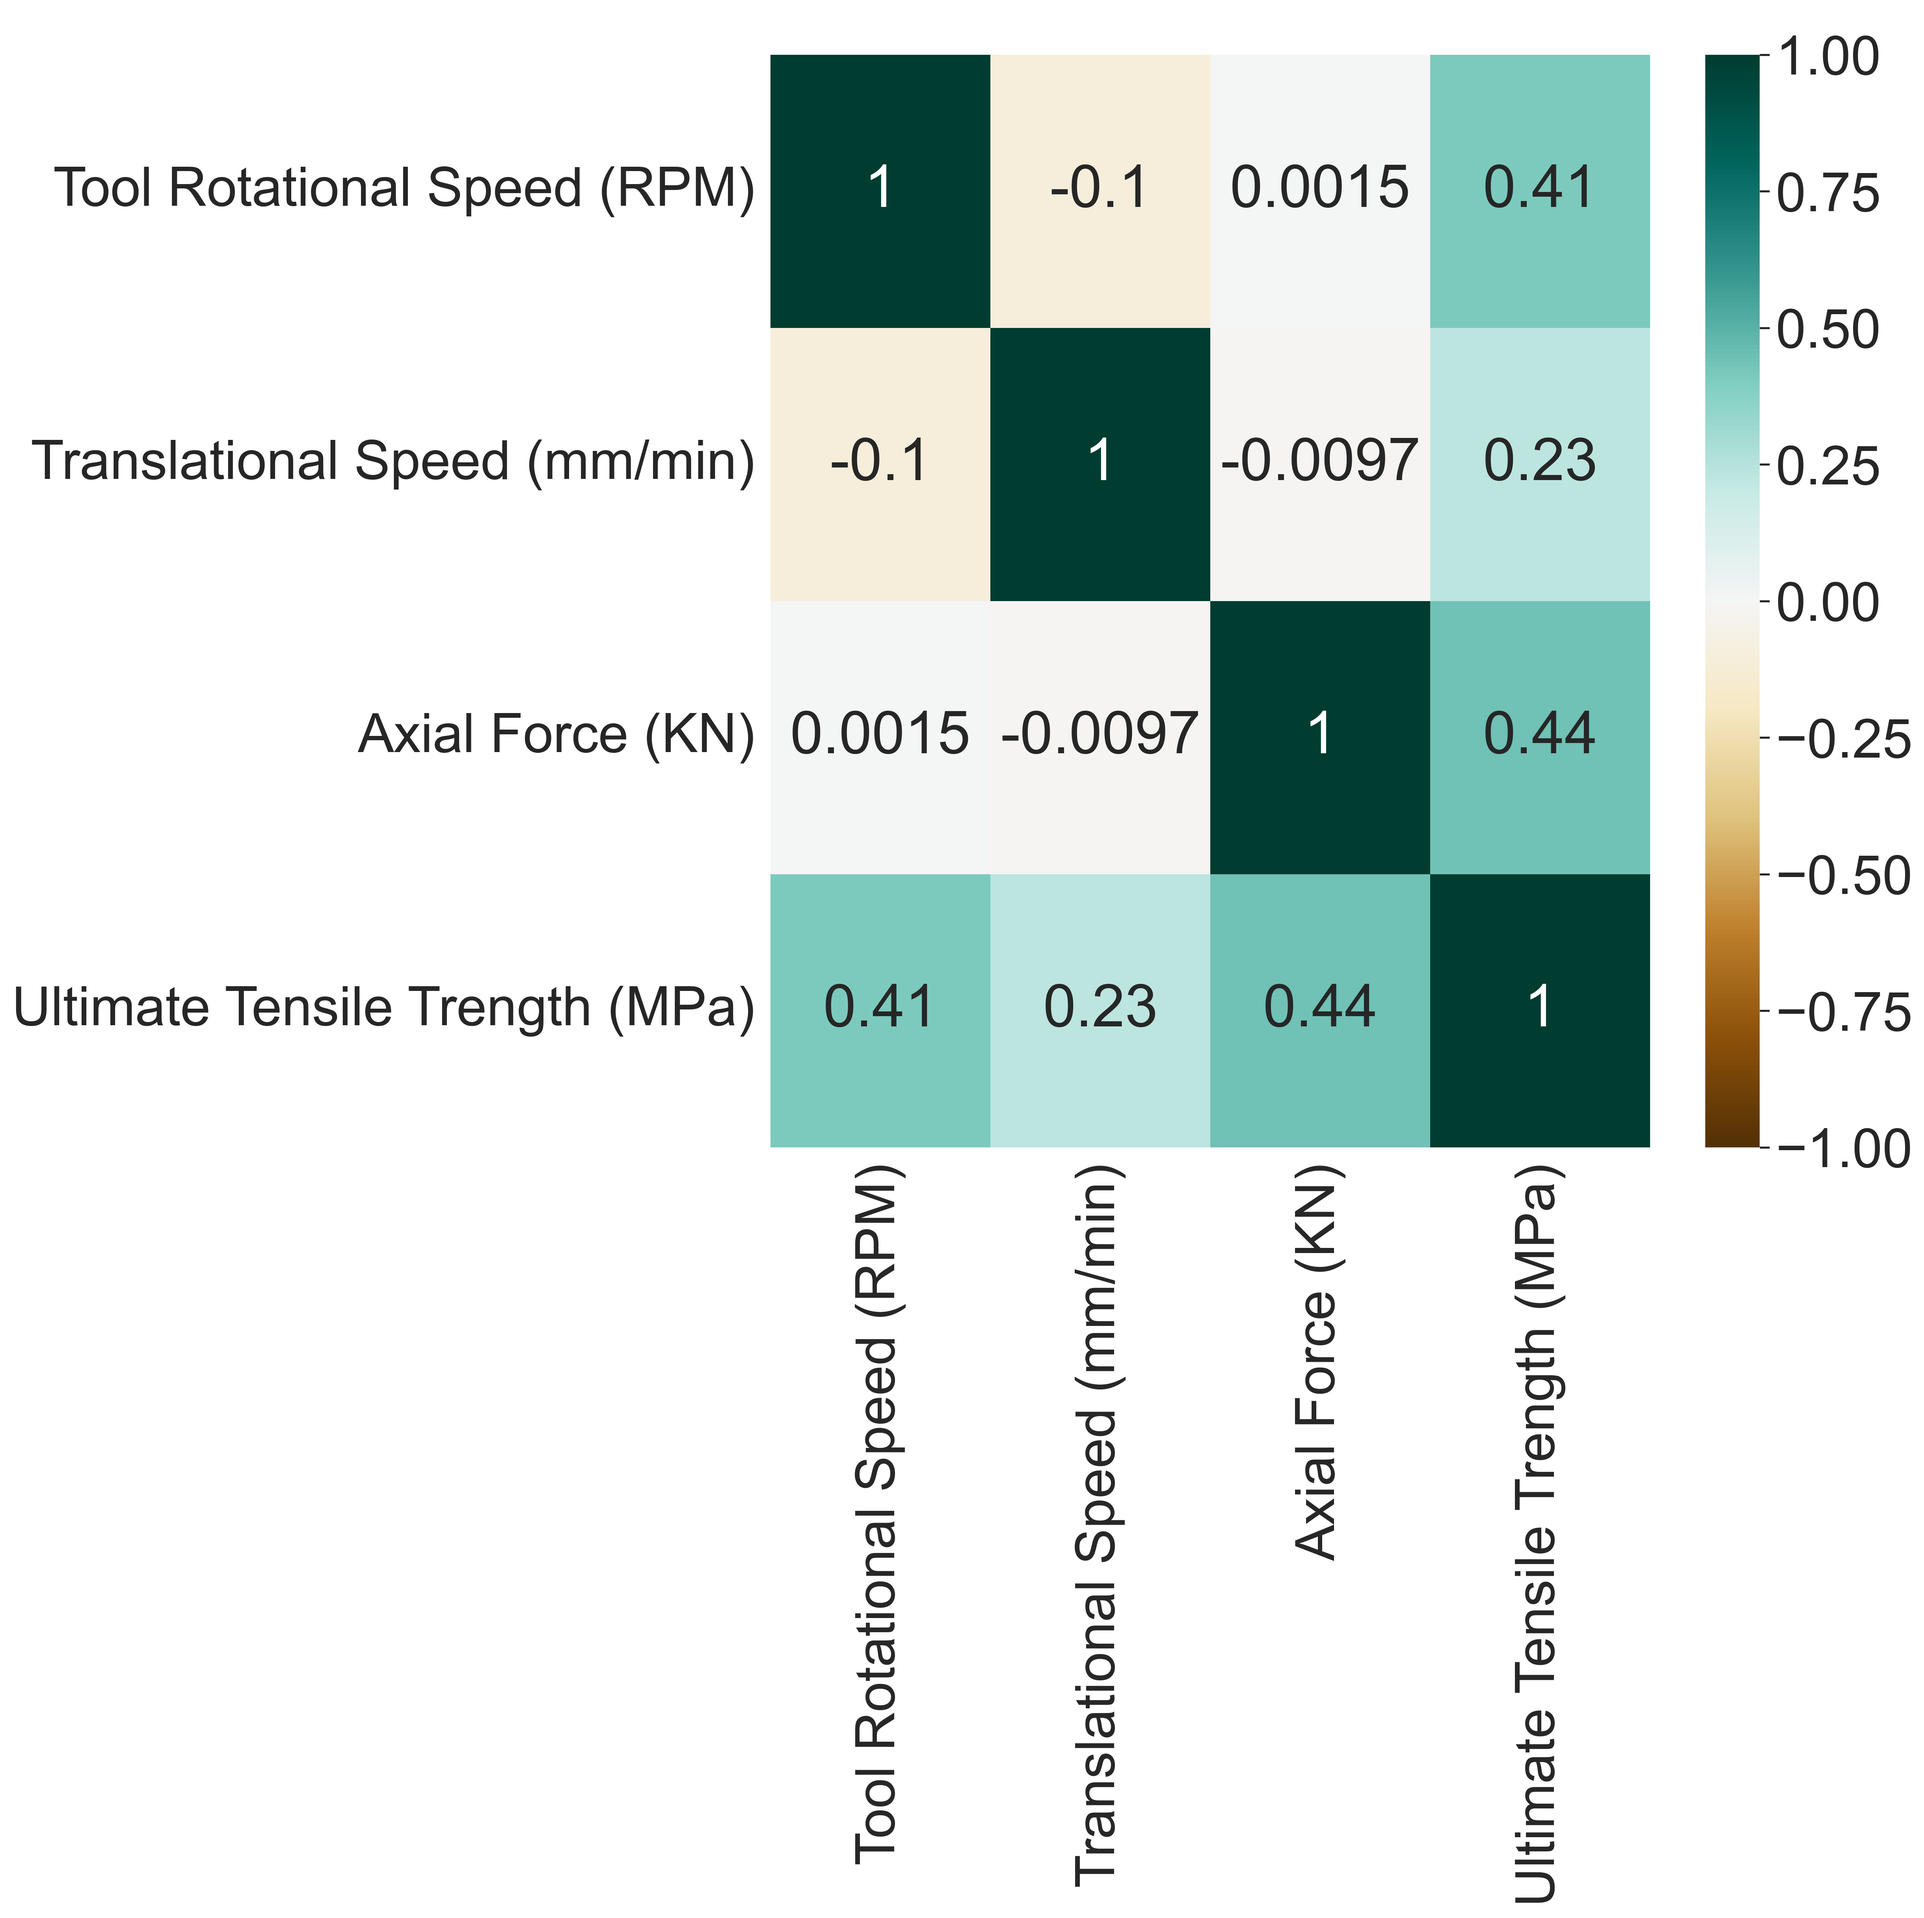
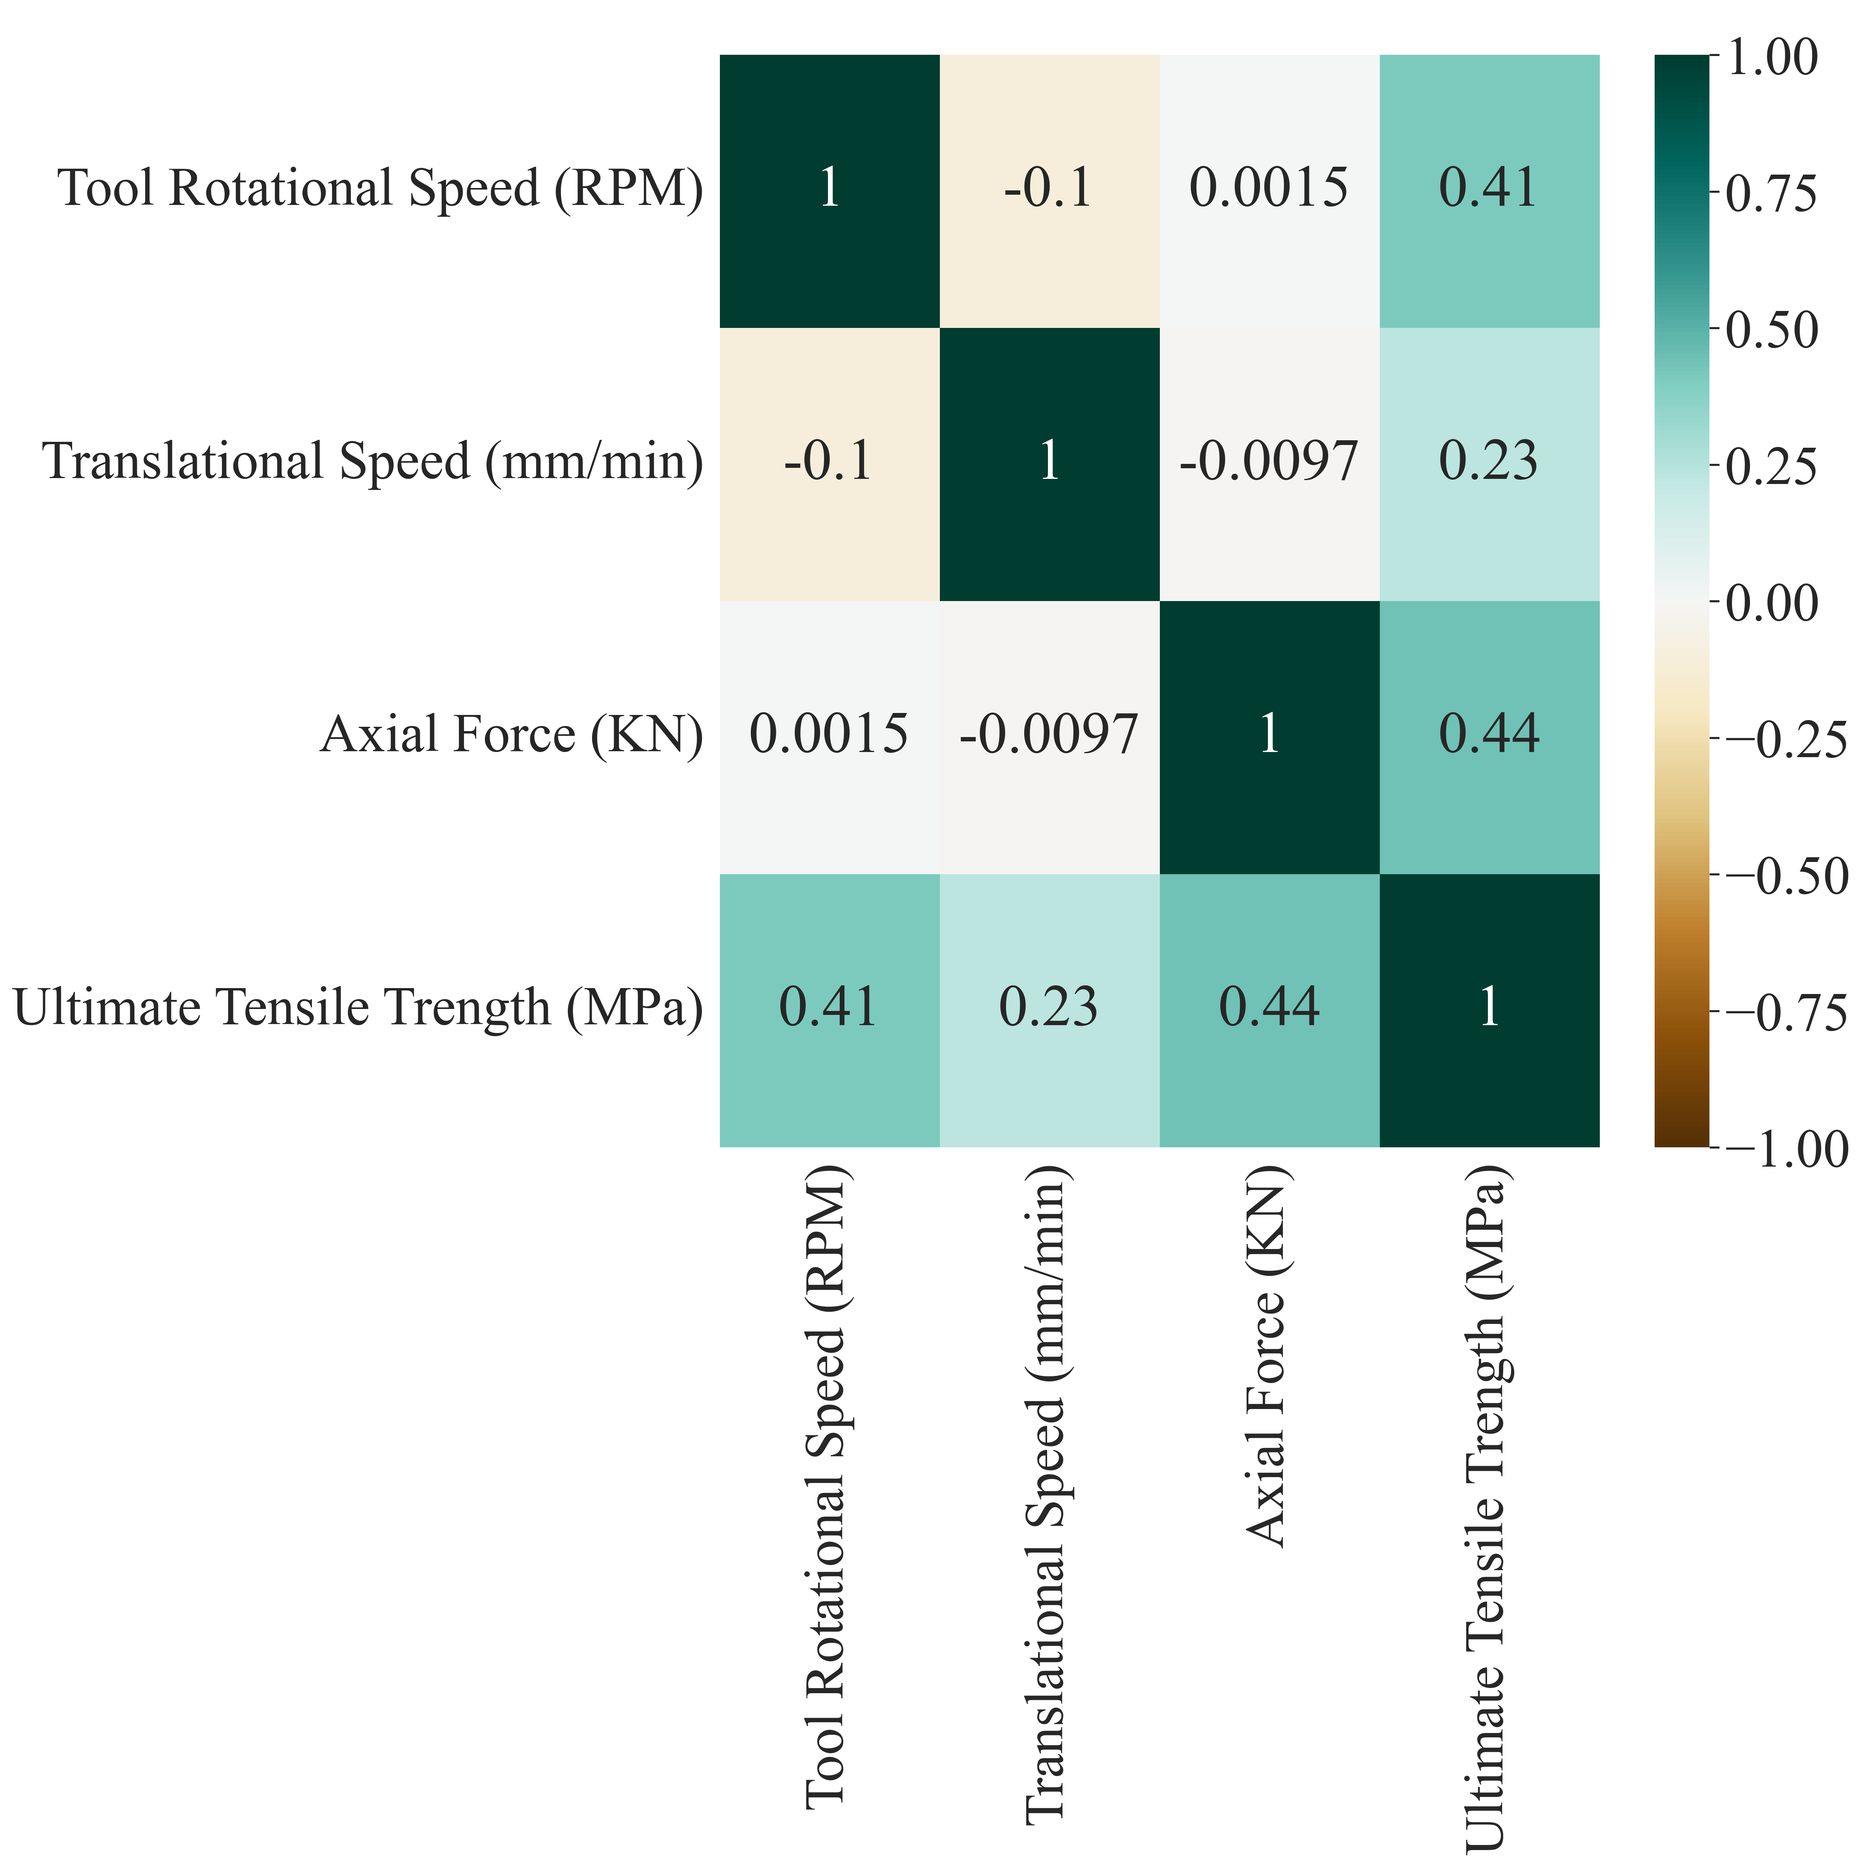
second commit

diff --git a/3dplot.py b/3dplot.py
@@ -1,0 +1,27 @@
+import numpy as np
+import matplotlib.pyplot as plt
+from mpl_toolkits import mplot3d
+
+# Generate example data
+x = np.linspace(-5, 5, 100)
+y = np.linspace(-5, 5, 100)
+X, Y = np.meshgrid(x, y)
+Z = np.sin(np.sqrt(X**2 + Y**2))
+
+fig = plt.figure()
+ax = plt.axes(projection='3d')
+
+ax.plot_surface(X, Y, Z, cmap='viridis')
+
+
+# Add labels and title
+ax.set_xlabel('X')
+ax.set_ylabel('Y')
+ax.set_zlabel('Z')
+ax.set_title('3D Plot')
+
+# Add color map
+ax.set_zlim(-1, 1)  # Set the z-axis limits
+fig.colorbar(fig, shrink=0.5, aspect=5)  # Add color bar
+
+plt.show()

diff --git a/HeatMap.py b/HeatMap.py
@@ -6,9 +6,12 @@ well_data = pd.read_csv('FSW_Dataset2.csv',encoding='latin1')
 
 corr = well_data.corr()
 sns.set(font_scale=3)
+sns.set_style({'font.family': 'Times New Roman'})
+
 
 plt.figure(figsize=(12, 12))
 #plt.figure(figsize=(19, 6))
 heatmap = sns.heatmap(well_data.corr(), vmin=-1, vmax=1, annot=True, cmap='BrBG')
-heatmap.set_title('  ', fontdict={'fontsize':6}, pad=22);
+heatmap.set_title('  ', fontdict={'fontsize':6}, pad=22)
+
 plt.savefig('heatmap.png', dpi=300, bbox_inches='tight')

diff --git a/randomForest.py b/randomForest.py
@@ -16,9 +16,12 @@ y = df['Ultimate Tensile Trength (MPa)'].values
 
 from sklearn.model_selection import train_test_split
 X_train, X_test, y_train, y_test = train_test_split(X, y, test_size=0.2, random_state=0)
+
+
+
 from sklearn.ensemble import RandomForestClassifier
 rf_model = RandomForestRegressor(n_estimators=10,  random_state=0)
-rf_model.fit(X, y)
+rf_model.fit(X_train, y_train)
 Y_pred =  rf_model.predict(X_test)
 
 # Make data frame of above data

diff --git a/stlMeshGen.py b/stlMeshGen.py
@@ -1,0 +1,5 @@
+import numpy as np
+import matplotlib.pyplot as plt
+import skimage import measure
+from stl import mesh
+
